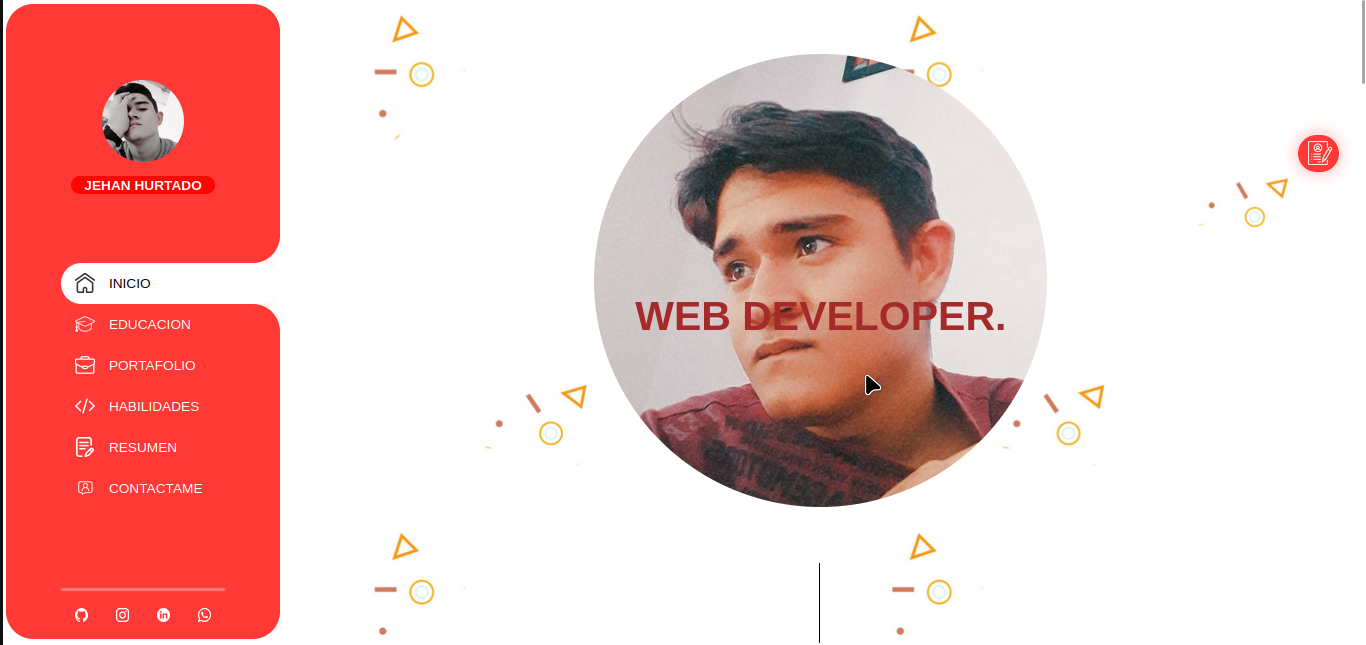
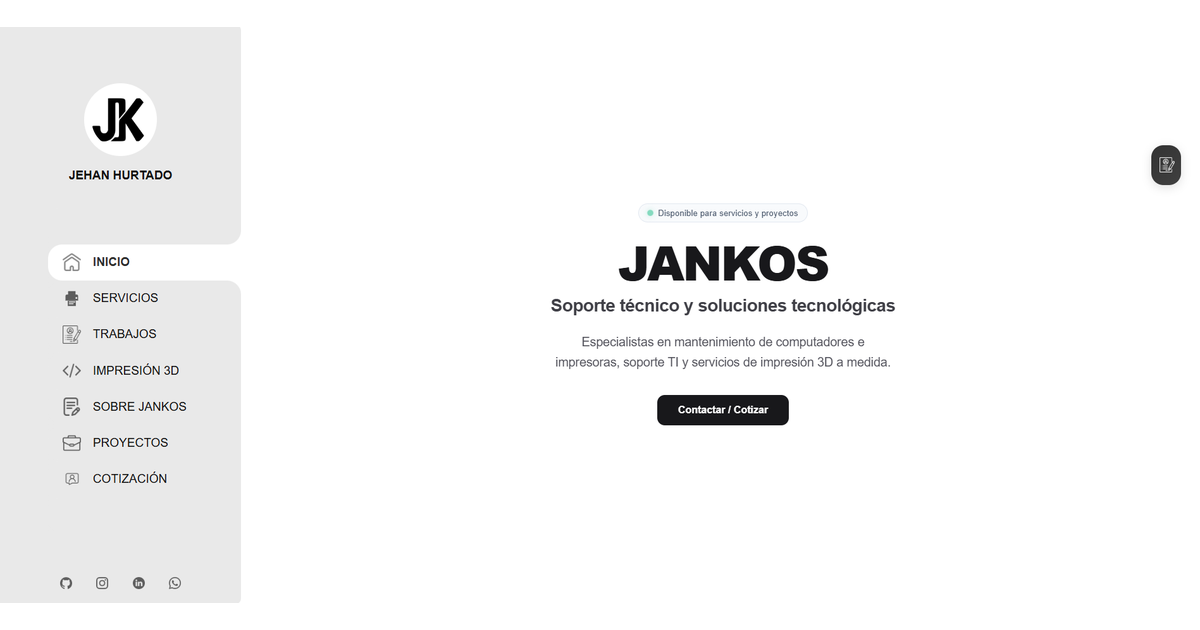
fix(web): update navigation and site metadata

diff --git a/src/app/aside-menu/aside-menu.component.ts b/src/app/aside-menu/aside-menu.component.ts
@@ -88,12 +88,11 @@ export class AsideMenuComponent implements OnInit, OnDestroy {
         if (nuevaSeccion !== this.seccionActual) {
           this.ngZone.run(() => {
             this.seccionActual = nuevaSeccion;
-            if (nuevaSeccion === 'app-inicio') this.inicio();
-            else if (nuevaSeccion === 'app-servicios') this.especialidad();
-            else if (nuevaSeccion === 'app-trabajos') this.experiencia();
+            if (nuevaSeccion === 'app-inicio' || nuevaSeccion === 'app-servicios') this.inicio();
             else if (nuevaSeccion === 'app-impresion3d') this.habilidades();
-            else if (nuevaSeccion === 'app-sobre-jankos') this.resumen();
             else if (nuevaSeccion === 'app-proyectos') this.portafolio();
+            else if (nuevaSeccion === 'app-trabajos') this.experiencia();
+            else if (nuevaSeccion === 'app-sobre-jankos') this.resumen();
             else if (nuevaSeccion === 'app-cotizacion') this.contactame();
           });
         }
@@ -122,128 +121,113 @@ export class AsideMenuComponent implements OnInit, OnDestroy {
     /*funciones de navegacion*/
   inicio(): void {
     this.li_diseno1 = { 'border-bottom-right-radius': '1.4rem' }
-    this.li_especialidad = { 'border-top-right-radius': '1.4rem' }
+    this.li_habilidades = { 'border-top-right-radius': '1.4rem' }
     this.li_inicio = { 'background': '#ffffff', 'color': '#2f2f2f', 'border-radius': '1.4rem 0 0 1.4rem', 'font-weight': '600', 'width': this.width < 1024 ? '112.5%' : '100%' }
-    this.li_experiencia = {}
-    this.li_habilidades = {}
-    this.li_resumen = {}
+    this.li_especialidad = {}
     this.li_portafolio = {}
+    this.li_experiencia = {}
+    this.li_resumen = {}
     this.li_contactame = {}
     this.li_diseno2 = {}
     this.imgInicio = 'invert(0) opacity(80%)'
     this.imgEspecialidad = ''
-    this.imgExperiencia = ''
     this.imgHabilidades = ''
-    this.imgResumen = ''
     this.imgPortafolio = ''
+    this.imgExperiencia = ''
+    this.imgResumen = ''
     this.imgContactame = ''
   }
   especialidad(): void {
-    this.li_inicio = { 'border-bottom-right-radius': '1.4rem' }
-    this.li_experiencia = { 'border-top-right-radius': '1.4rem' }
-    this.li_especialidad = { 'background': '#ffffff', 'color': '#2f2f2f', 'border-radius': '1.4rem 0 0 1.4rem', 'font-weight': '600', 'width': this.width < 1024 ? '112.5%' : '100%' }
-    this.li_diseno1 = {}
-    this.li_habilidades = {}
-    this.li_resumen = {}
-    this.li_portafolio = {}
-    this.li_contactame = {}
-    this.li_diseno2 = {}
-    this.imgInicio = ''
-    this.imgEspecialidad = 'invert(0) opacity(80%)'
-    this.imgExperiencia = ''
-    this.imgHabilidades = ''
-    this.imgResumen = ''
-    this.imgPortafolio = ''
-    this.imgContactame = ''
-  }
-  experiencia(): void {
-    this.li_especialidad = { 'border-bottom-right-radius': '1.4rem' }
-    this.li_habilidades = { 'border-top-right-radius': '1.4rem' }
-    this.li_experiencia = { 'background': '#ffffff', 'color': '#2f2f2f', 'border-radius': '1.4rem 0 0 1.4rem', 'font-weight': '600', 'width': this.width < 1024 ? '112.5%' : '100%' }
-    this.li_inicio = {}
-    this.li_diseno1 = {}
-    this.li_resumen = {}
-    this.li_portafolio = {}
-    this.li_contactame = {}
-    this.li_diseno2 = {}
-    this.imgInicio = ''
-    this.imgEspecialidad = ''
-    this.imgExperiencia = 'invert(0) opacity(80%)'
-    this.imgHabilidades = ''
-    this.imgResumen = ''
-    this.imgPortafolio = ''
-    this.imgContactame = ''
+    this.inicio()
   }
   habilidades(): void {
-    this.li_experiencia = { 'border-bottom-right-radius': '1.4rem' }
-    this.li_resumen = { 'border-top-right-radius': '1.4rem' }
-    this.li_habilidades = { 'background': '#ffffff', 'color': '#2f2f2f', 'border-radius': '1.4rem 0 0 1.4rem', 'font-weight': '600', 'width': this.width < 1024 ? '112.5%' : '100%' }
-    this.li_inicio = {}
-    this.li_diseno1 = {}
-    this.li_especialidad = {}
-    this.li_portafolio = {}
-    this.li_contactame = {}
-    this.li_diseno2 = {}
-    this.imgInicio = ''
-    this.imgEspecialidad = ''
-    this.imgExperiencia = ''
-    this.imgHabilidades = 'invert(0) opacity(80%)'
-    this.imgResumen = ''
-    this.imgPortafolio = ''
-    this.imgContactame = ''
-  }
-  resumen(): void {
-    this.li_habilidades = { 'border-bottom-right-radius': '1.4rem' }
+    this.li_inicio = { 'border-bottom-right-radius': '1.4rem' }
     this.li_portafolio = { 'border-top-right-radius': '1.4rem' }
-    this.li_resumen = { 'background': '#ffffff', 'color': '#2f2f2f', 'border-radius': '1.4rem 0 0 1.4rem', 'font-weight': '600', 'width': this.width < 1024 ? '112.5%' : '100%' }
-    this.li_inicio = {}
+    this.li_habilidades = { 'background': '#ffffff', 'color': '#2f2f2f', 'border-radius': '1.4rem 0 0 1.4rem', 'font-weight': '600', 'width': this.width < 1024 ? '112.5%' : '100%' }
     this.li_diseno1 = {}
     this.li_especialidad = {}
     this.li_experiencia = {}
+    this.li_resumen = {}
     this.li_contactame = {}
     this.li_diseno2 = {}
     this.imgInicio = ''
     this.imgEspecialidad = ''
-    this.imgExperiencia = ''
-    this.imgHabilidades = ''
-    this.imgResumen = 'invert(0) opacity(80%)'
+    this.imgHabilidades = 'invert(0) opacity(80%)'
     this.imgPortafolio = ''
+    this.imgExperiencia = ''
+    this.imgResumen = ''
     this.imgContactame = ''
   }
   portafolio(): void {
-    this.li_resumen = { 'border-bottom-right-radius': '1.4rem' }
-    this.li_contactame = { 'border-top-right-radius': '1.4rem' }
+    this.li_habilidades = { 'border-bottom-right-radius': '1.4rem' }
+    this.li_experiencia = { 'border-top-right-radius': '1.4rem' }
     this.li_portafolio = { 'background': '#ffffff', 'color': '#2f2f2f', 'border-radius': '1.4rem 0 0 1.4rem', 'font-weight': '600', 'width': this.width < 1024 ? '112.5%' : '100%' }
-    this.li_inicio = {}
     this.li_diseno1 = {}
+    this.li_inicio = {}
     this.li_especialidad = {}
-    this.li_experiencia = {}
-    this.li_habilidades = {}
+    this.li_resumen = {}
+    this.li_contactame = {}
     this.li_diseno2 = {}
     this.imgInicio = ''
     this.imgEspecialidad = ''
-    this.imgExperiencia = ''
     this.imgHabilidades = ''
-    this.imgResumen = ''
     this.imgPortafolio = 'invert(0) opacity(80%)'
+    this.imgExperiencia = ''
+    this.imgResumen = ''
+    this.imgContactame = ''
+  }
+  experiencia(): void {
+    this.li_portafolio = { 'border-bottom-right-radius': '1.4rem' }
+    this.li_resumen = { 'border-top-right-radius': '1.4rem' }
+    this.li_experiencia = { 'background': '#ffffff', 'color': '#2f2f2f', 'border-radius': '1.4rem 0 0 1.4rem', 'font-weight': '600', 'width': this.width < 1024 ? '112.5%' : '100%' }
+    this.li_diseno1 = {}
+    this.li_inicio = {}
+    this.li_especialidad = {}
+    this.li_habilidades = {}
+    this.li_contactame = {}
+    this.li_diseno2 = {}
+    this.imgInicio = ''
+    this.imgEspecialidad = ''
+    this.imgHabilidades = ''
+    this.imgPortafolio = ''
+    this.imgExperiencia = 'invert(0) opacity(80%)'
+    this.imgResumen = ''
+    this.imgContactame = ''
+  }
+  resumen(): void {
+    this.li_experiencia = { 'border-bottom-right-radius': '1.4rem' }
+    this.li_contactame = { 'border-top-right-radius': '1.4rem' }
+    this.li_resumen = { 'background': '#ffffff', 'color': '#2f2f2f', 'border-radius': '1.4rem 0 0 1.4rem', 'font-weight': '600', 'width': this.width < 1024 ? '112.5%' : '100%' }
+    this.li_diseno1 = {}
+    this.li_inicio = {}
+    this.li_especialidad = {}
+    this.li_habilidades = {}
+    this.li_portafolio = {}
+    this.li_diseno2 = {}
+    this.imgInicio = ''
+    this.imgEspecialidad = ''
+    this.imgHabilidades = ''
+    this.imgPortafolio = ''
+    this.imgExperiencia = ''
+    this.imgResumen = 'invert(0) opacity(80%)'
     this.imgContactame = ''
   }
   contactame(): void {
-    this.li_portafolio = { 'border-bottom-right-radius': '1.4rem' }
+    this.li_resumen = { 'border-bottom-right-radius': '1.4rem' }
     this.li_diseno2 = { 'border-top-right-radius': '1.4rem' }
     this.li_contactame = { 'background': '#ffffff', 'color': '#2f2f2f', 'border-radius': '1.4rem 0 0 1.4rem', 'font-weight': '600', 'width': this.width < 1024 ? '112.5%' : '100%' }
-    this.li_inicio = {}
     this.li_diseno1 = {}
+    this.li_inicio = {}
     this.li_especialidad = {}
-    this.li_experiencia = {}
     this.li_habilidades = {}
-    this.li_resumen = {}
+    this.li_portafolio = {}
+    this.li_experiencia = {}
     this.imgInicio = ''
     this.imgEspecialidad = ''
-    this.imgExperiencia = ''
     this.imgHabilidades = ''
-    this.imgResumen = ''
     this.imgPortafolio = ''
+    this.imgExperiencia = ''
+    this.imgResumen = ''
     this.imgContactame = 'invert(0) opacity(80%)'
   }
 }

diff --git a/src/app/aside-menu/aside-menu.component.html b/src/app/aside-menu/aside-menu.component.html
@@ -20,10 +20,17 @@
           </a>
         </li>
         <li>
-          <a href="#app-servicios" [ngStyle]="li_especialidad">
-            <img class="hoverEfecto" [ngStyle]="{ filter: imgEspecialidad }"
-              src="./assets/icons/icons-aside/soporte-icon.svg" alt="support" />
-            <span class="hoverEfecto">SERVICIOS</span>
+          <a href="#app-impresion3d" [ngStyle]="li_habilidades">
+            <img class="hoverEfecto" [ngStyle]="{ filter: imgHabilidades }"
+              src="./assets/icons/icons-aside/habilidades-icon.png" alt="3d printing" />
+            <span class="hoverEfecto">IMPRESIÓN 3D</span>
+          </a>
+        </li>
+        <li>
+          <a href="#app-proyectos" [ngStyle]="li_portafolio">
+            <img class="hoverEfecto" [ngStyle]="{ filter: imgPortafolio }"
+              src="./assets/icons/icons-aside/portafolio-icon.png" alt="portafolio" />
+            <span class="hoverEfecto">PROYECTOS</span>
           </a>
         </li>
         <li>
@@ -34,24 +41,10 @@
           </a>
         </li>
         <li>
-          <a href="#app-impresion3d" [ngStyle]="li_habilidades">
-            <img class="hoverEfecto" [ngStyle]="{ filter: imgHabilidades }"
-              src="./assets/icons/icons-aside/habilidades-icon.png" alt="3d printing" />
-            <span class="hoverEfecto">IMPRESIÓN 3D</span>
-          </a>
-        </li>
-        <li>
           <a href="#app-sobre-jankos" [ngStyle]="li_resumen">
             <img class="hoverEfecto" [ngStyle]="{ filter: imgResumen }"
               src="./assets/icons/icons-aside/resumen-icon.png" alt="about jankos" />
             <span class="hoverEfecto">SOBRE JANKOS</span>
-          </a>
-        </li>
-        <li>
-          <a href="#app-proyectos" [ngStyle]="li_portafolio">
-            <img class="hoverEfecto" [ngStyle]="{ filter: imgPortafolio }"
-              src="./assets/icons/icons-aside/portafolio-icon.png" alt="portafolio" />
-            <span class="hoverEfecto">PROYECTOS</span>
           </a>
         </li>
         <li>
@@ -124,9 +117,15 @@
           </a>
         </li>
         <li>
-          <a (click)="closedMenu()" href="#app-servicios">
-            <img class="hoverEfecto" src="./assets/icons/icons-aside/soporte-icon.svg" alt="support" />
-            <span class="hoverEfecto">SERVICIOS</span>
+          <a (click)="closedMenu()" href="#app-impresion3d">
+            <img class="hoverEfecto" src="./assets/icons/icons-aside/habilidades-icon.png" alt="3d printing" />
+            <span class="hoverEfecto">IMPRESIÓN 3D</span>
+          </a>
+        </li>
+        <li>
+          <a (click)="closedMenu()" href="#app-proyectos">
+            <img class="hoverEfecto" src="./assets/icons/icons-aside/portafolio-icon.png" alt="portafolio" />
+            <span class="hoverEfecto">PROYECTOS</span>
           </a>
         </li>
         <li>
@@ -136,21 +135,9 @@
           </a>
         </li>
         <li>
-          <a (click)="closedMenu()" href="#app-impresion3d">
-            <img class="hoverEfecto" src="./assets/icons/icons-aside/habilidades-icon.png" alt="3d printing" />
-            <span class="hoverEfecto">IMPRESIÓN 3D</span>
-          </a>
-        </li>
-        <li>
           <a (click)="closedMenu()" href="#app-sobre-jankos">
             <img class="hoverEfecto" src="./assets/icons/icons-aside/resumen-icon.png" alt="about jankos" />
             <span class="hoverEfecto">SOBRE JANKOS</span>
-          </a>
-        </li>
-        <li>
-          <a (click)="closedMenu()" href="#app-proyectos">
-            <img class="hoverEfecto" src="./assets/icons/icons-aside/portafolio-icon.png" alt="portafolio" />
-            <span class="hoverEfecto">PROYECTOS</span>
           </a>
         </li>
         <li>

diff --git a/src/index.html b/src/index.html
@@ -12,7 +12,8 @@
     <meta name="robots" content="index, follow">
     <meta name="theme-color" content="#2d2d2d">
     <link rel="canonical" href="https://jankostech.com/">
-    <link rel="icon" type="image/png" href="assets/img/favicon-jk.svg?v=JK_SVG">
+    <link rel="icon" type="image/svg+xml" href="assets/img/favicon-jk.svg?v=JK_SVG">
+    <link rel="alternate icon" href="favicon.ico">
     <link rel="manifest" href="site.webmanifest">
     <meta property="og:type" content="website">
     <meta property="og:locale" content="es_CO">
@@ -20,6 +21,9 @@
     <meta property="og:description" content="Servicio técnico de impresoras y computadores, mantenimiento, optimización, impresión 3D personalizada, litofanías, lámparas, llaveros NFC y piezas por encargo.">
     <meta property="og:url" content="https://jankostech.com/">
     <meta property="og:image" content="https://jankostech.com/assets/preview.png">
+    <meta property="og:image:width" content="1200">
+    <meta property="og:image:height" content="630">
+    <meta property="og:image:type" content="image/png">
     <meta name="twitter:card" content="summary_large_image">
     <meta name="twitter:title" content="JANKOS | Soporte Técnico, Impresoras, Computadores e Impresión 3D">
     <meta name="twitter:description" content="Servicio técnico de impresoras y computadores, mantenimiento, optimización, impresión 3D personalizada, litofanías, lámparas, llaveros NFC y piezas por encargo.">

diff --git a/src/404.html b/src/404.html
@@ -2,7 +2,7 @@
 <html lang="es">
 <head>
   <meta charset="utf-8">
-  <title>Jehan Hurtado | Redirigiendo</title>
+  <title>JANKOS Tech | Redirigiendo</title>
   <meta name="viewport" content="width=device-width, initial-scale=1">
   <meta http-equiv="refresh" content="0; url=/">
   <meta name="robots" content="noindex">
@@ -26,8 +26,8 @@
 </head>
 <body>
   <main>
-    <h1>Volviendo al portfolio</h1>
-    <p>Si no redirige automáticamente, entra a <a href="/">nas-jankos.com</a>.</p>
+    <h1>Volviendo al inicio</h1>
+    <p>Si no redirige automáticamente, entra a <a href="https://jankostech.com/">jankostech.com</a>.</p>
   </main>
 </body>
 </html>

diff --git a/wiki/log.md b/wiki/log.md
@@ -1,5 +1,17 @@
 # LLM Wiki — Bitácora Cronológica (jankCVonline)
 
+## [2026-10-28] update | Reordenamiento de navegación y renovación de portada 1200x630
+- Reordenamiento de la navegación en menú de escritorio y móvil: 1. Inicio, 2. Impresión 3D, 3. Proyectos, 4. Trabajos, 5. Sobre Jankos, 6. Cotización.
+- Ajuste de estilos geométricos y sincronización de estado activo en `aside-menu.component.ts`.
+- Sustitución de `src/assets/preview.png` con la portada oficial (1200x630 px), preservando el dominio canónico `https://jankostech.com/`.
+- Incorporación de etiquetas Open Graph `og:image:width`, `og:image:height` y `og:image:type` en `src/index.html`.
+
+## [2026-10-28] fix | Corrección técnica de favicon 404, MIME SVG, manifiesto y página 404
+- Inclusión de `src/favicon.ico` en `angular.json` assets para resolver el error 404 en la raíz `/favicon.ico`.
+- Corrección del tipo MIME a `image/svg+xml` y adición de `<link rel="alternate icon">` en `src/index.html`.
+- Actualización de marca en `src/site.webmanifest` (`name` y `short_name` establecidos en `JANKOS Tech`).
+- Saneamiento de `src/404.html` actualizando título y enlace de retorno al dominio canónico `https://jankostech.com/`.
+
 ## [2026-10-27] update | Consolidación Fases 1–4: Simplificación de fondo y Hero a pantalla completa
 - Retiro de 150 iconos flotantes multicolor neón y lienzo tecnológico, estableciendo fondo neutro sobrio y profesional.
 - Saneamiento de listener huérfano mouseMove y variable positionBackground en inicio.component.

diff --git a/wiki/pages/seo-canonical-domain.md b/wiki/pages/seo-canonical-domain.md
@@ -14,13 +14,21 @@ Previamente, el proyecto mantenía referencias al dominio de NAS (`https://nas-j
    - Contenido unificado exactamente a `jankostech.com` para GitHub Pages / hosting estático.
 2. **`src/index.html`**:
    - `<link rel="canonical" href="https://jankostech.com/">`
+   - `<link rel="icon" type="image/svg+xml" href="assets/img/favicon-jk.svg?v=JK_SVG">` (tipo MIME corregido de `image/png` a `image/svg+xml`).
+   - `<link rel="alternate icon" href="favicon.ico">` (soporte y fallback directo a favicon raíz).
    - `og:url`: `https://jankostech.com/`
    - `og:image`: `https://jankostech.com/assets/preview.png`
    - `twitter:image`: `https://jankostech.com/assets/preview.png`
    - Metadatos estructurados JSON-LD (`ProfessionalService` y `Person`) apuntando a `https://jankostech.com/`.
-3. **`src/robots.txt`**:
+3. **`angular.json`**:
+   - Inclusión de `"src/favicon.ico"` en la sección `architect.build.options.assets` para resolver el error 404 en la raíz `/favicon.ico`.
+4. **`src/site.webmanifest`**:
+   - `name` y `short_name` actualizados a `JANKOS Tech` con icono enlazado a `iconApp.ico`.
+5. **`src/404.html`**:
+   - Título actualizado a `JANKOS Tech | Redirigiendo` y enlace de retorno actualizado al dominio canónico `https://jankostech.com/`.
+6. **`src/robots.txt`**:
    - Directiva de sitemap: `Sitemap: https://jankostech.com/sitemap.xml`.
-4. **`src/sitemap.xml`**:
+7. **`src/sitemap.xml`**:
    - Ubicación canónica: `<loc>https://jankostech.com/</loc>`.
 
 ## Restricciones
